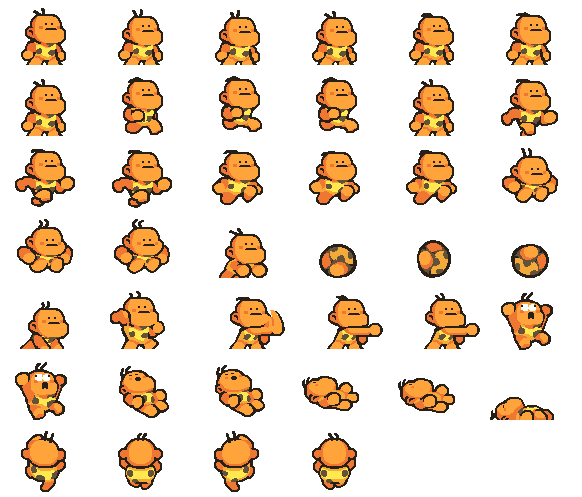
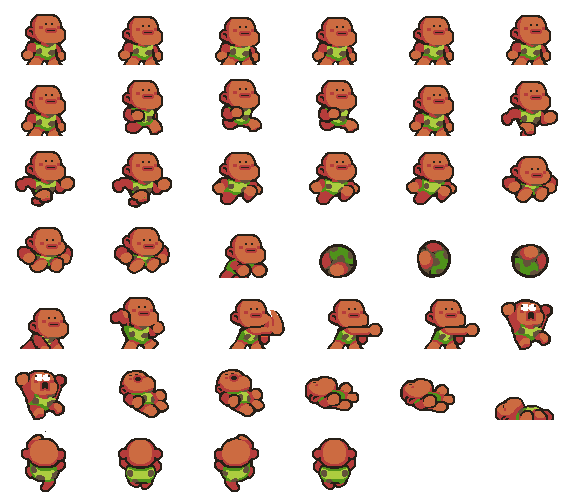
add animation platform

diff --git a/bin/Stage.py b/bin/Stage.py
@@ -263,7 +263,10 @@ class NivelOne():
         self.arrayComponente = []
         self.bg = Component(win, pg.image.load(
             "../assets/one/f.png"), None, 0, 0, 0)
+        self.floor = Component(win, pg.image.load(
+            "../assets/one/floor.png"), None, 0, FLOOR, 0)    
         self.win.blit(self.bg.currentImage, (0, 0))
+        self.win.blit(self.floor.currentImage, (0, 0))
         self.bgWidth, self.bgHeight = self.bg.currentImage.get_rect().size
         self.stageWidth = self.bgWidth * 4
         self.startScrollingPosX = HW
@@ -278,21 +281,22 @@ class NivelOne():
         self.lifes = pg.sprite.Group()
         self.tumis = pg.sprite.Group()
         self.foods = pg.sprite.Group()
-        self.spritesheet = Spritesheet("../assets/one/player1.png")
+        self.spritesheet = Spritesheet("../assets/one/player{}.png".format(self.game.suit))
         #ADD PLAYER
         self.player = Player(self)
         self.players.add(self.player)
         #ADD PLATFORMS
-        base = Platform(0, FLOOR , 3*WIDTH, HEIGHT - FLOOR)
-        pt = Platform(200 , FLOOR - 25 , 100 , 20)
-        p1 = Platform(750 , FLOOR - 100 , 100 , 20)
-        p2 = Platform(1135.5 , FLOOR - 100 , 100 , 20)
-        p3 = Platform(1411 , FLOOR - 200 , 50 , 20)
-        p4 = Platform(1636.5 , FLOOR - 100 , 100 , 20)
-        p5 = Platform(2350 , FLOOR - 100 , 100 , 20)
-        p6 = Platform(3055.5 , FLOOR - 100 , 100 , 20)
-        p7 = Platform(3331 , FLOOR - 200 , 50 , 20)
-        p8 = Platform(3556.5 , FLOOR - 100 , 100 , 20)
+        base = Platform(0, FLOOR , 3*WIDTH, HEIGHT - FLOOR,"")
+        base.image.set_alpha(0) 
+        pt = Platform(200 , FLOOR - 25 , 100 , 20,"1")
+        p1 = Platform(750 , FLOOR - 100 , 100 , 20,"1")
+        p2 = Platform(1135.5 , FLOOR - 100 , 100 , 20,"1")
+        p3 = Platform(1411 , FLOOR - 200 , 50 , 20,"2")
+        p4 = Platform(1636.5 , FLOOR - 100 , 100 , 20,"1")
+        p5 = Platform(2350 , FLOOR - 100 , 100 , 20,"1")
+        p6 = Platform(3055.5 , FLOOR - 100 , 100 , 20,"1")
+        p7 = Platform(3331 , FLOOR - 200 , 50 , 20,"2")
+        p8 = Platform(3556.5 , FLOOR - 100 , 100 , 20,"1")
         self.bases.add(base)
         self.platforms.add(pt)
         self.platforms.add(p1)
@@ -481,8 +485,12 @@ class NivelOne():
         rel_x = round(self.stagePosX % self.bgWidth,0)
         self.win.blit(self.bg.currentImage,
                             (rel_x - self.bgWidth, 0))
+        self.win.blit(self.floor.currentImage,
+                            (rel_x - self.bgWidth, FLOOR))
+        
         if rel_x < WIDTH:
             self.win.blit(self.bg.currentImage, (rel_x, 0))
+            self.win.blit(self.floor.currentImage, (rel_x, FLOOR))
         if self.player.rect.center[0] == self.startScrollingPosX:
             self.platforms.update(self.player.des)
             self.lifes.update(self.player.des)

diff --git a/bin/Sprites.py b/bin/Sprites.py
@@ -17,8 +17,6 @@ class Player(pg.sprite.Sprite):
     def __init__(self, stage):
         pg.sprite.Sprite.__init__(self)
         self.stage = stage
-        # self.image = pg.Surface((50, 50))
-        # self.image.set_colorkey(BLACK)
         # self.image.fill(self.__getSuit())
         self.walking = False
         self.jumping = False
@@ -26,7 +24,6 @@ class Player(pg.sprite.Sprite):
         self.last_update = 0
         self.load_images()
         self.image = self.standing_frames[0]
-        #self.image.set_colorkey(BLACK)
         self.rect = self.image.get_rect()
         self.rect.center = (25, 300)
         self.pos = vec(48.5, 300) #POSITION IN ALL STAGE 
@@ -61,7 +58,7 @@ class Player(pg.sprite.Sprite):
             frame.set_colorkey(BLACK)
 
         self.jump_frames_l = []
-        for frame in jump_frames_r:
+        for frame in self.jump_frames_r:
             self.jump_frames_l.append(pg.transform.flip(frame,True, False))
         for frame in self.jump_frames_l:
             frame.set_colorkey(BLACK)
@@ -127,12 +124,12 @@ class Player(pg.sprite.Sprite):
         if self.jumping:
             if now - self.last_update > 50:
                 self.last_update = now
-                self.current_frame = (self.current_frame + 1) % len(self.jump_frames)
+                self.current_frame = (self.current_frame + 1) % len(self.jump_frames_r)
                 bottom = self.rect.bottom
-                if self.vel.x  > 0:
-                    self.image = self.jump_frames_r[self.current_frame]
-                else:
+                if self.vel.x  < 0:
                     self.image = self.jump_frames_l[self.current_frame]
+                else:
+                    self.image = self.jump_frames_r[self.current_frame]
                 self.rect = self.image.get_rect()
                 self.rect.bottom = bottom
 
@@ -173,10 +170,13 @@ class Player(pg.sprite.Sprite):
 
 class Platform(pg.sprite.Sprite):
 
-    def __init__(self, x, y, w, h):
+    def __init__(self, x, y, w, h, type):
         pg.sprite.Sprite.__init__(self)
-        self.image = pg.Surface((w, h))
-        self.image.fill(PURPLE)
+        if type == "":
+            self.image = pg.Surface((w, h))
+            self.image.fill(PURPLE)
+        else:
+            self.image = pg.image.load("../assets/one/platform{}.png".format(type))
         self.rect = self.image.get_rect()
         self.rect.x = x
         self.rect.y = y
